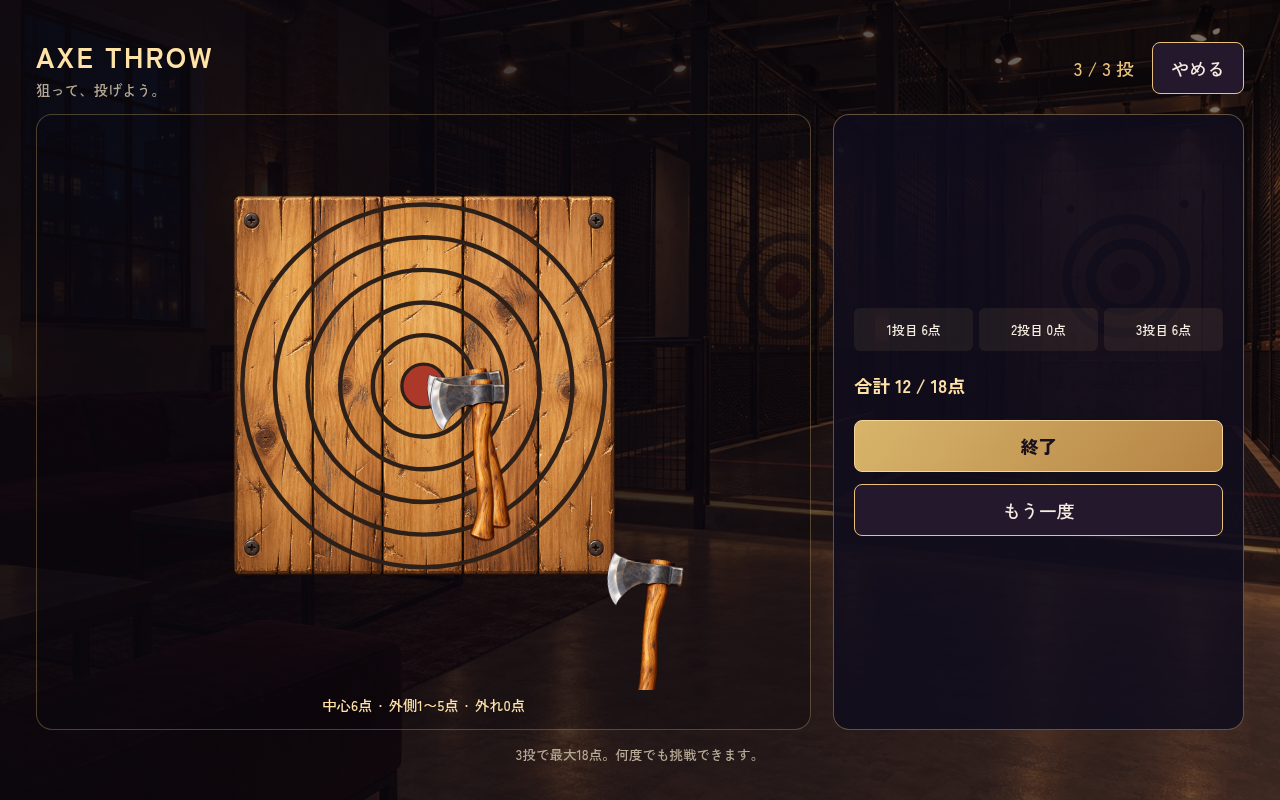
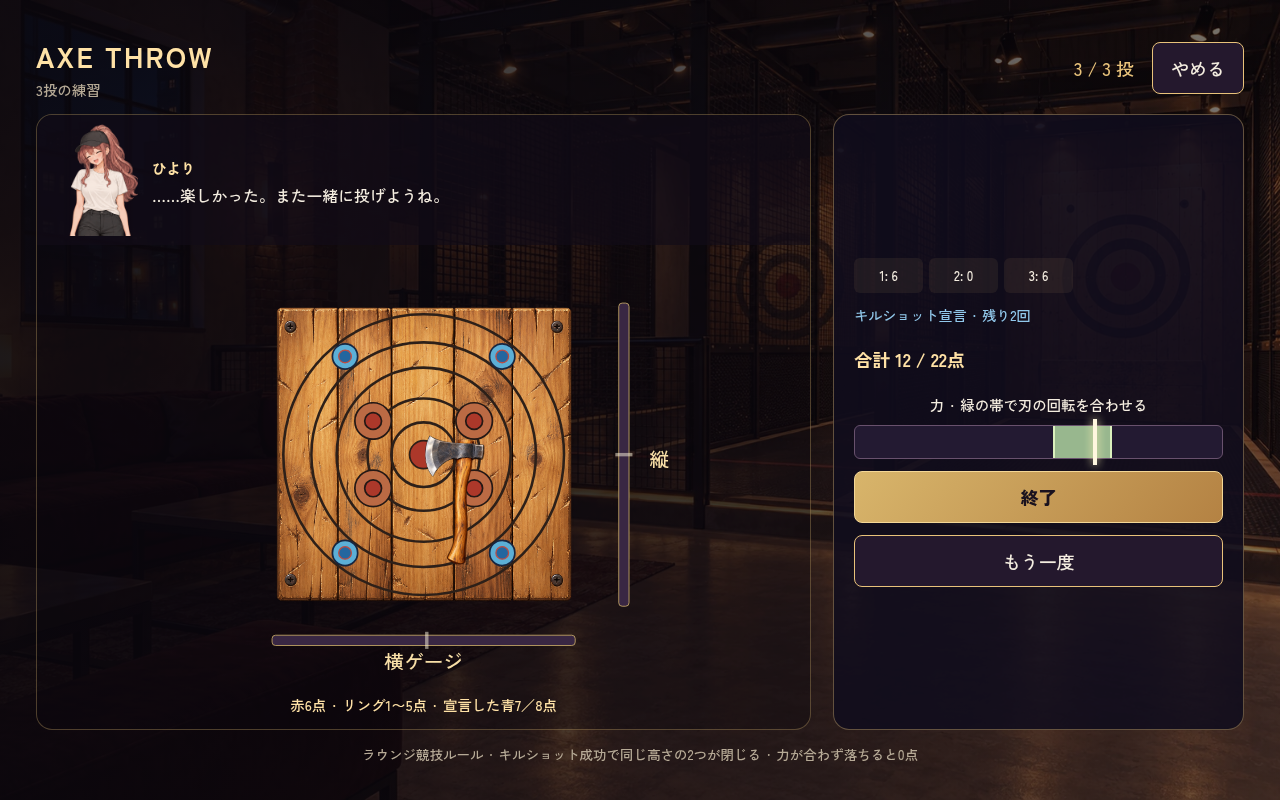
fix(axe): guard layout-changing double clicks and preserve keyboard focus; record actual three-gauge QA

diff --git a/remake/js/minigames/axe.js b/remake/js/minigames/axe.js
@@ -40,7 +40,7 @@ export function runAxeThrow({ host = document.getElementById("stage") || documen
     el("button.axe-button.axe-close", { text: "やめる", dataset: { test: "axe-cancel" }, onclick: () => cleanup(false) })]);
   const portrait = el("img.axe-portrait", { alt: companion.name, src: faceArt(opponent, companion.faces[0]), dataset: { test: "axe-portrait" } });
   const comment = el("p.axe-comment", { "aria-live": "polite", dataset: { test: "axe-comment" } });
-  const companionCard = el("div.axe-companion", [portrait, el("div", [el("strong", { text: companion.name }), comment])]);
+  const companionCard = el("div.axe-companion", [el("div.axe-portrait-frame", [portrait]), el("div", [el("strong", { text: companion.name }), comment])]);
   const board = svg("svg", { viewBox: "0 0 660 520", class: "axe-target", role: "img",
     "aria-label": "5か所の赤い得点圏と4か所の青いキルショット。横・縦ゲージを止めて照準を決める", "data-test": "axe-target" });
   board.append(svg("image", { href: ART.board, x: 135, y: 50, width: 390, height: 390 }));
@@ -78,10 +78,14 @@ export function runAxeThrow({ host = document.getElementById("stage") || documen
     el("span.axe-sweet", { style: { left: POWER.sweetMin * 100 + "%", width: (POWER.sweetMax - POWER.sweetMin) * 100 + "%" } }), needle]);
   const action = el("button.axe-button.axe-primary", { dataset: { test: "axe-action" }, onclick: act });
   const reaim = el("button.axe-button.axe-reaim", { text: "構え直す", dataset: { test: "axe-reaim" }, onclick: () => {
-    if (["horizontal", "vertical", "power"].includes(phase)) { aim = { x: 0, y: 0 }; power = POWER.ideal; setPhase("choice"); }
+    if (!document.hidden && performance.now() - lastAction >= 250 && ["horizontal", "vertical", "power"].includes(phase)) {
+      lastAction = performance.now(); aim = { x: 0, y: 0 }; power = POWER.ideal; setPhase("choice");
+    }
   } });
   const retry = el("button.axe-button.axe-retry", { text: "もう一度", dataset: { test: "axe-retry" }, onclick: () => {
-    if (phase === "summary") { shots = []; called = null; aim = { x: 0, y: 0 }; power = POWER.ideal; impacts.replaceChildren(); setPhase("choice"); }
+    if (!document.hidden && performance.now() - lastAction >= 250 && phase === "summary") {
+      lastAction = performance.now(); shots = []; called = null; aim = { x: 0, y: 0 }; power = POWER.ideal; impacts.replaceChildren(); setPhase("choice");
+    }
   } });
   root.append(heading, el("div.axe-body", [el("div.axe-board-pane", [companionCard, board,
     el("p.axe-legend", { text: "赤6点 · リング1〜5点 · 宣言した青7／8点" })]),
@@ -100,7 +104,7 @@ export function runAxeThrow({ host = document.getElementById("stage") || documen
       .then(() => { if (phase !== "closed") setPhase("choice"); }, () => { if (phase !== "closed") setPhase("failed"); });
   }
   function selectCall(id) {
-    if (phase !== "choice" || document.hidden || id && !canCall(id, shots)) return;
+    if (phase !== "choice" || document.hidden || performance.now() - lastAction < 250 || id && !canCall(id, shots)) return;
     called = id; render();
   }
   function setPhase(next) { phase = next; elapsed = 0; stamp = null; render(); }
@@ -132,6 +136,7 @@ export function runAxeThrow({ host = document.getElementById("stage") || documen
     }
   }
   function render() {
+    const focusedButton = document.activeElement?.tagName === "BUTTON" && root.contains(document.activeElement) ? document.activeElement : null;
     if (phase === "horizontal") aim.x = axisAt(gaugeAt(elapsed, cycles.horizontal));
     if (phase === "vertical") aim.y = axisAt(gaugeAt(elapsed, cycles.vertical));
     if (phase === "power") power = gaugeAt(elapsed, cycles.power);
@@ -150,7 +155,7 @@ export function runAxeThrow({ host = document.getElementById("stage") || documen
       : "キルショット宣言 · 残り" + ks.remaining + "回";
     for (const button of calls.children) {
       const id = button.dataset.call;
-      button.disabled = document.hidden || phase !== "choice" || id !== "normal" && !canCall(id, shots);
+      button.disabled = document.hidden || performance.now() - lastAction < 250 || phase !== "choice" || id !== "normal" && !canCall(id, shots);
       button.setAttribute("aria-pressed", String((called || "normal") === id));
     }
     for (const target of KILLS) {
@@ -167,6 +172,7 @@ export function runAxeThrow({ host = document.getElementById("stage") || documen
     xNeedle.setAttribute("opacity", phase === "horizontal" ? 1 : .5); yNeedle.setAttribute("opacity", phase === "vertical" ? 1 : .5);
     flying.setAttribute("opacity", phase === "flight" ? 1 : 0); needle.style.left = power * 100 + "%";
     calls.hidden = phase !== "choice"; reaim.hidden = !cycles[phase]; retry.hidden = phase !== "summary";
+    reaim.disabled = retry.disabled = document.hidden || performance.now() - lastAction < 250;
     action.disabled = document.hidden || ["loading", "flight"].includes(phase) || cycles[phase] && elapsed < 250 || performance.now() - lastAction < 250;
     const nextAction = { loading: "読み込み中…", failed: "もう一度読み込む", choice: "構える", horizontal: "横を止める", vertical: "縦を止める", power: "力を止めて投げる！",
       flight: "飛んでいく…", result: shots.length === rules.throws ? "結果を見る" : "次の投へ", summary: "終了" }[phase] || "";
@@ -179,6 +185,8 @@ export function runAxeThrow({ host = document.getElementById("stage") || documen
       : last.outcome === "killshot-miss" ? "宣言した青い的から外れた · 0点" : last.score ? "命中！ " + last.score + "点" : "的の外 · 0点"
       : "合計 " + totalOf(shots) + " / " + rules.max + "点";
     if (note.textContent !== nextNote) note.textContent = nextNote;
+    // Disabling a focused native button otherwise sends Space/Enter to the VN below.
+    if (focusedButton?.disabled) root.focus();
   }
   function tick(now) {
     if (phase === "closed") return;

diff --git a/remake/css/axe-throw.css b/remake/css/axe-throw.css
@@ -116,3 +116,13 @@
   .axe-intro .axe-pickers { gap: 8px; }
   .axe-intro .axe-pickers .axe-button { min-height: 36px; font-size: 13px; }
 }
+.axe-portrait-frame { position: relative; overflow: hidden; flex-shrink: 0; width: 85px; height: 112px; border-radius: 8px; }
+.axe-portrait-frame .axe-portrait { position: absolute; width: 180px; max-width: none; height: auto; left: 50%; top: -4px; transform: translateX(-50%); }
+@container (max-width: 650px) and (min-height: 501px) {
+  .axe-portrait-frame { width: 60px; height: 76px; }
+  .axe-portrait-frame .axe-portrait { width: 130px; top: -2px; }
+}
+@container (max-height: 500px) {
+  .axe-portrait-frame { width: 54px; height: 72px; }
+  .axe-portrait-frame .axe-portrait { width: 125px; top: -2px; }
+}

diff --git a/docs/qa/axe-throw/README.md b/docs/qa/axe-throw/README.md
@@ -1,9 +1,13 @@
 # 斧投げミニゲームの実表示と回帰（#480 / PR #483）
 
-以下のJSON・画像は改訂前（ポインタ照準＋投げ時1ゲージ）の検証記録。横・縦・力とキルショットへの改訂後の結果は再取得中で、旧記録を新仕様のPASS根拠にはしない。
+横→縦→力ゲージ、宣言キルショット、力による落下、ひより／サメちゃんのコメントへ改訂した実装を検証した。
+採点・3ゲージ・力・宣言/閉鎖・キャラ口調の純関数9ケース、実ブラウザ11ケース、保存6ケース、LIME VMがPASS。
+ブラウザ結果は axe-throw.json / save-load.json。生成素材の旧13ファイル、5追加表情のRGBA、背景、透過斧/ボードのRGBAと透明外周もvalidate.pyでPASS。
 
-生成済みの背景・木製ボード・透過斧を実UIで使用。pc-summary.pngとtouch-portrait-summary.pngは実際の3投の結果（中心6点・外れ0点・中心6点）で、表示専用の偽得点ではない。
+実操作はPC／タッチ縦横／キーボード・動き軽減、3投・10投・再挑戦・終了、宣言成功7/8点・宣言外れ0点、2回制限・同じ高さの閉鎖と後半への持越し、背景停止、構え直し・取消、連打、二重開始・Abort・host撤去、旧スキーマ／実友人／恋人の全保存とLIME不変を確認。
 
-採点境界/タイミングの純関数5テスト、実ブラウザ10ケース、既存保存6ケース、LIME VMがPASS。ブラウザ結果はaxe-throw.json / save-load.json。PC・タッチ縦横・キーボード・動き軽減、3投/再挑戦/終了、背景停止/狙い直し、リピート/ダブルクリック、事前Abort/host撤去、APIの二重開始/中断、旧スキーマ・実友人・恋人状態と保存/LIME不変を確認。
+pc-horizontal.png / touch-portrait-power.png は実ゲージ画面。pc-summary.png / touch-portrait-summary.png は実3投（通常命中・過回転による落下0点・通常命中）の結果。league-kafuka-summary.png はサメちゃんの反応を表示した10投の記録。ポーズ・得点を表示用に注入していない。capture-source.jsonに検証したコードのSHA256を保存した。
 
-この記録は機能PRのローカル検証。公開ゲームの操作確認ではない。CIでは対象headをTEST_REFとして結果へ記録し、全画面をartifactに保存する。正式ひより台本/素顔発覚と後半章の新規ゲーム到達性は本記録の対象外。
+初回の改訂head ae7459ccでは連打1ケースが失敗した（CI run38319461040にも保存）。構えるボタンが移動して2回目のクリックが構え直しへ当たっていたため、すべての切替操作を250ms抑制するよう修正。キーボードのボタン無効化時も焦点をゲーム内へ戻した。修正後に11ケースを再実行しPASSを確認した。採点や宣言の制約は弱めていない。
+
+この記録は機能PRのローカル検証。公開URLの操作確認は別途行う。CIでは対象headをTEST_REFとして結果へ記録し、画面をartifactに保存する。本編の正式ひより台本・素顔発覚と後半章への到達性、相手の投擲や勝敗を含む対戦は未実装。
